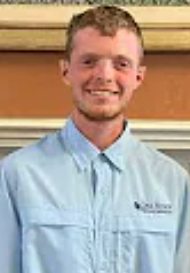
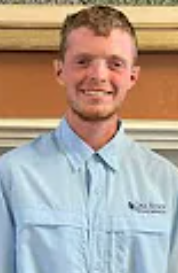
Adjusted the sizes of the student pics to maintain consistent display dimensions; Resized Contact Form popup screen

diff --git a/templates/about.html b/templates/about.html
@@ -5,7 +5,7 @@
 {% endblock %}-->
 <!-- Image Gallery-->
 <script>
-    var names = ["Jessica Mohr [President & Co-Founder]", "Chance Loveday [VP & Co-Founder]", "Kylind Reagan [Secretary]", "Samir Rojas [Treasurer]", "Gianna Mantegna", "Gustavo Hernandez"];
+    var names = ["Jessica Mohr", "Chance Loveday", "Kylind Reagan", "Samir Rojas", "Gianna Mantegna", "Gustavo Hernandez"];
     var blurbs = ["",
                 "Hi, I'm a sophomore Computer Science and Math major. I'm active in several organizations across campus, including S³, Mountain Challenge, and MC3D. However, one club is particularly special. CSC has given me a place to excel, hone my programming skills, and be around some truly incredible people.",
                 "I am a sophomore Computer Science and have been on the Programming Team since I was a freshman. It improved my coding skills, let me meet people in my field, and helped me feel more prepared for both the real world and academia. It's also a lot of fun for anyone who enjoys problem-solving and traveling with peers!",
@@ -106,7 +106,7 @@
     <section id="navbar" class="navbar">
         <!--Navbar-->
         <pre>   <!--Additionally, make Contact a button at the bottom with the Facebook link-->
-            <a href="https://www.maryvillecollege.edu/" target="_blank" ><img align="left" src="../static/Images/mcLogo.png" style="margin-top:-1%; margin-left: 4%;" loading="lazy"></a>    <a class="navlinks" href="major.html">Major</a>    <a class="navlinks" href="" onclick="window.open('http://localhost/contact.php', 'newwindow', 'width=700,height=500'); return false;">Contact</a>    <a class="navlinks" href="http://localhost/problems.php">Problems</a> <a href="./home.html"><img align="right" src="../static/Images/placeholderlogo.png" style="margin-top:-1%; margin-right: 4%;" loading="lazy"></a>
+            <a href="https://www.maryvillecollege.edu/" target="_blank" ><img align="left" src="../static/Images/mcLogo.png" style="margin-top:-1%; margin-left: 4%;" loading="lazy"></a>    <a class="navlinks" href="major.html">Major</a>    <a class="navlinks" href="" onclick="window.open('http://localhost/contact.php', 'newwindow', 'width=1000,height=550'); return false;">Contact</a>    <a class="navlinks" href="http://localhost/problems.php">Problems</a> <a href="./home.html"><img align="right" src="../static/Images/placeholderlogo.png" style="margin-top:-1%; margin-right: 4%;" loading="lazy"></a>
         </pre>
     </section>
 
@@ -150,16 +150,17 @@
     <!--Name-->
     <div class="row">
         <div class="side">
-            <input type="text" id="studentName" class="studenthead" value="Jessica Mohr [President & Co-Founder]" readonly>
+            <input type="text" id="studentName" class="studenthead" value="Jessica Mohr" readonly>
         </div>
         <div class="side">
-            <input type="text" id="studentName2" class="studenthead" value="Chance Loveday [VP & Co-Founder]" readonly>
+            <input type="text" id="studentName2" class="studenthead" value="Chance Loveday" readonly>
         </div>
         <div class="side">
-            <input type="text" id="studentName3" class="studenthead" value="Kylind Reagan [Secretary]" readonly>
+            <input type="text" id="studentName3" class="studenthead" value="Kylind Reagan" readonly>
         </div>
     </div>
 
+    <center><hr width="227.5px"></center><br>
     <!--Pic-->
     <div class="row">
         <div class="side">

diff --git a/templates/home.html b/templates/home.html
@@ -18,7 +18,7 @@
         <section id="navbar" class="navbar">
             <!--Navbar-->
             <pre>   <!--Additionally, make Contact a button at the bottom with the Facebook link-->
-                <a href="https://www.maryvillecollege.edu/" target="_blank" ><img align="left" src="../static/Images/mcLogo.png" style="margin-top:-1%; margin-left: 4%;" loading="lazy"></a>    <a class="navlinks" href="about.html">About</a>    <a class="navlinks" href="major.html">Major</a>   <a class="navlinks" href="" onclick="window.open('http://localhost/contact.php', 'newwindow', 'width=700,height=500'); return false;">Contact</a>    <a class="navlinks" href="http://localhost/problems.php">Problems</a> <a href="./home.html"><img align="right" src="../static/Images/placeholderlogo.png" style="margin-top:-1%; margin-right: 4%;" loading="lazy"></a>
+                <a href="https://www.maryvillecollege.edu/" target="_blank" ><img align="left" src="../static/Images/mcLogo.png" style="margin-top:-1%; margin-left: 4%;" loading="lazy"></a>    <a class="navlinks" href="about.html">About</a>    <a class="navlinks" href="major.html">Major</a>   <a class="navlinks" href="" onclick="window.open('http://localhost/contact.php', 'newwindow', 'width=1000,height=550'); return false;">Contact</a>    <a class="navlinks" href="http://localhost/problems.php">Problems</a> <a href="./home.html"><img align="right" src="../static/Images/placeholderlogo.png" style="margin-top:-1%; margin-right: 4%;" loading="lazy"></a>
             </pre>
         </section>
         <br><br><br>

diff --git a/templates/major.html b/templates/major.html
@@ -16,7 +16,7 @@
     <section id="navbar" class="navbar" style="margin-top: -5.5%; margin-bottom: -1.5%;">
         <!--Navbar-->
         <pre>   <!--Additionally, make Contact a button at the bottom with the Facebook link-->
-            <a href="https://www.maryvillecollege.edu/" target="_blank" ><img align="left" src="../static/Images/mcLogo.png" style="margin-top:-1%; margin-left: 4%;" loading="lazy"></a>    <a class="navlinks" href="about.html">About</a>    <a class="navlinks" href="" onclick="window.open('http://localhost/contact.php', 'newwindow', 'width=700,height=500'); return false;">Contact</a>    <a class="navlinks" href="http://localhost/problems.php">Problems</a> <a href="./home.html"><img align="right" src="../static/Images/placeholderlogo.png" style="margin-top:-1%; margin-right: 4%;" loading="lazy"></a>
+            <a href="https://www.maryvillecollege.edu/" target="_blank" ><img align="left" src="../static/Images/mcLogo.png" style="margin-top:-1%; margin-left: 4%;" loading="lazy"></a>    <a class="navlinks" href="about.html">About</a>    <a class="navlinks" href="" onclick="window.open('http://localhost/contact.php', 'newwindow', 'width=1000,height=550'); return false;">Contact</a>    <a class="navlinks" href="http://localhost/problems.php">Problems</a> <a href="./home.html"><img align="right" src="../static/Images/placeholderlogo.png" style="margin-top:-1%; margin-right: 4%;" loading="lazy"></a>
         </pre>
     </section>
     

diff --git a/static/styles/style.css b/static/styles/style.css
@@ -106,6 +106,7 @@
 .locations-col{
     flex-basis: 30%;
     border-radius: 10px;
+    margin-right: 50px;
     margin-bottom: 30px;
     position: relative;
     overflow: hidden;
@@ -156,15 +157,6 @@
     font-size: 32px;
     margin-top: 0%;
 }
-.studenthead {
-    background-color:inherit;
-    color:#600015;
-    font-family: Helvetica;
-    font-size:21px;
-    width:375px;
-    text-align: center;
-    border: transparent;
-}
 .studentdescp {
     background-color:inherit;
     color: #fde79e;
@@ -172,6 +164,15 @@
     font-family: Arial;
     width: 375px;
     height: 250px;
+    text-align: center;
+    border: transparent;
+}
+.studenthead {
+    background-color:inherit;
+    color:#600015;
+    font-family: Helvetica;
+    font-size:24px;
+    width:375px;
     text-align: center;
     border: transparent;
 }

diff --git a/problems.php b/problems.php
@@ -8,6 +8,11 @@
     </head>
 
     <body>
-
+    <section id="navbar" class="navbar">
+        <!--Navbar-->
+        <pre>
+            <a href="https://www.maryvillecollege.edu/" target="_blank" ><img align="left" src="../static/Images/mcLogo.png" style="margin-top:-1%; margin-left: 4%;" loading="lazy"></a>    <a class="navlinks" href="about.html">About</a>    <a class="navlinks" href="major.html">Major</a>   <a class="navlinks" href="" onclick="window.open('http://localhost/contact.php', 'newwindow', 'width=1000,height=550'); return false;">Contact</a>    <a class="navlinks" href="http://localhost/problems.php">Problems</a> <a href="./home.html"><img align="right" src="../static/Images/placeholderlogo.png" style="margin-top:-1%; margin-right: 4%;" loading="lazy"></a>
+        </pre>
+    </section>
     </body>
 </html>
